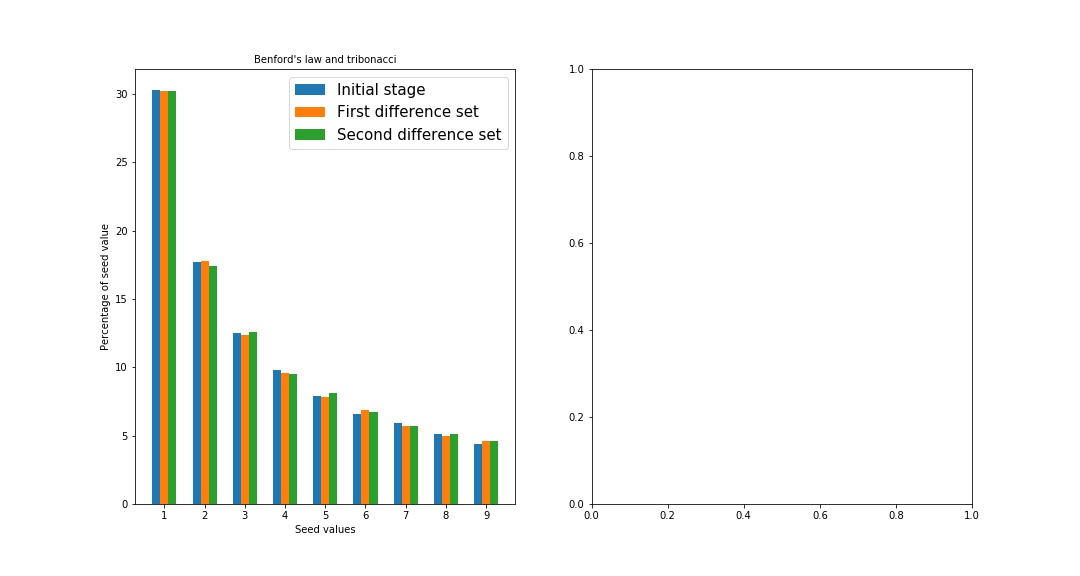
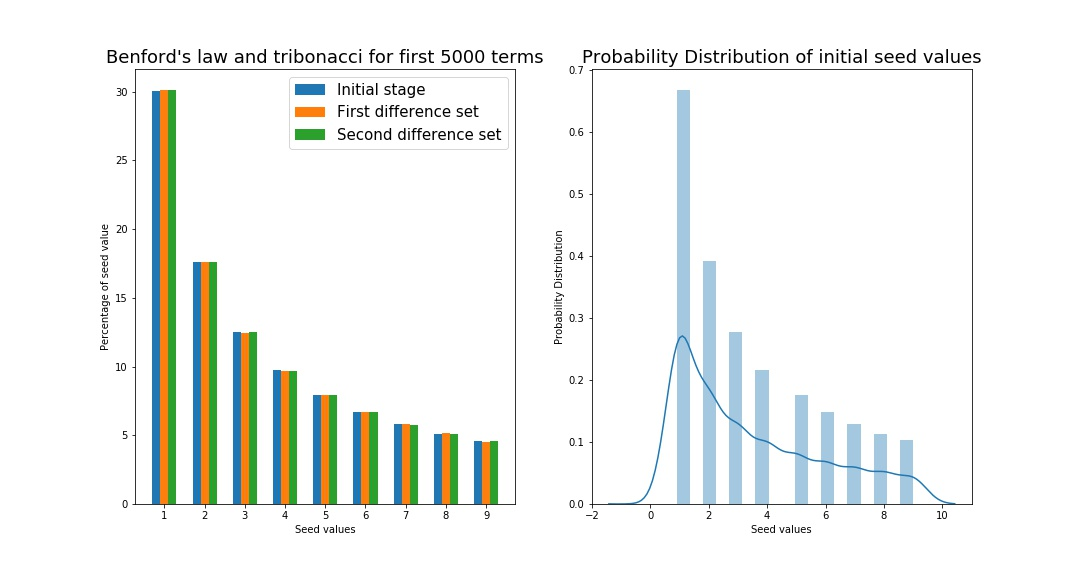
Push for distplot

diff --git a/tribonacci beford conjucture.py b/tribonacci beford conjucture.py
@@ -82,11 +82,12 @@ percval(nlsd0,ls1)
 percval(nlsd1,ls2)
 percval(nlsd2,ls3)
 
-#Bar graph plotting
+#Subpolot grid
 fig, axes = plt.subplots(nrows=1, ncols=2, figsize=(15, 8))
-plt.subplot(121)
 
+plt.subplot(121) #Subplot-1
 
+#Bar graph plotting
 X=['1','2','3','4','5','6','7','8','9']
 yelem = ls1
 ylsd = ls2
@@ -102,11 +103,12 @@ plt.bar(X_axis + 0.2, ylsd2, 0.2)
 plt.xticks(X_axis,X)
 plt.xlabel("Seed values")
 plt.ylabel("Percentage of seed value")
-plt.title("Benford's law and tribonacci",fontsize = 10)
+plt.title("Benford's law and tribonacci for first "+ str(n) + " terms" ,fontsize = 18)
 plt.legend(["Initial stage","First difference set","Second difference set"], fontsize=15)
-plt.savefig("output.jpg")
 
-plt.subplot(122) 
+plt.subplot(122)  #Subplot-2
+
+#Distribution plot
 seed = []
 for i in strlsd0:
     seed.append(int(i[0]))
@@ -116,8 +118,11 @@ for i in strlsd0:
 sns.distplot(seed)
 plt.ylabel("Probability Distribution")
 plt.xlabel("Seed values")
-plt.title("Probability Distribution of seed values", fontsize=10)
+plt.title("Probability Distribution of initial seed values", fontsize=18)
 plt.show()
+
+#Save subplots
+fig.savefig("output.jpg")
 
 print("Your Plot is stored as 'output.jpg' in the parent directory")
 
